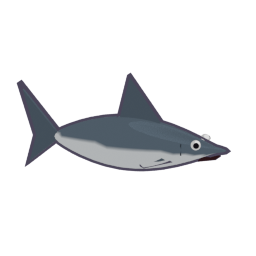
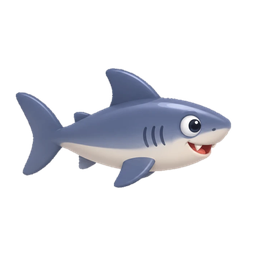
A trial: three fish from the owner's picture (cod, pufferfish, shark), cut out and made to swim

Changed region(s): [[0.0625, 0.25, 0.9062, 0.75]]

diff --git a/tools/art/make_fish.py b/tools/art/make_fish.py
@@ -1,0 +1,148 @@
+"""Fish from a picture the owner had made (an image model; the prompt is in the chat of 2026-11-14), in place of the
+Blender ones: a trial with three (tools/art/fish_source_test.webp: cod, pufferfish, shark, side on, on flat grey).
+
+Each fish is cut from the grey, then:
+  assets/vf/fish/<slug>.png   its picture (catch card, Fish Book, shop): 256 px, where the old one was, the same size
+  assets/vf/mini/<slug>.png   the side view that swims (Reel it in!, the aquarium): 4 frames of 224 px. The picture is
+                              one still, so the swim is made here: the tail half bends up and down and shortens
+                              (as a tail does when it swings towards you); the head, eye and mouth stay put.
+  manifest.json mini.fish     where its eye and mouth are, how big the eye is, the skin colour by the eye ("lid"),
+                              and "own": true: the picture has a face already, so the game draws its eye over the
+                              painted one (glossy, same place, same size) and leaves the mouth alone.
+
+    python tools/art/make_fish.py        -> the files above, and build/fish_check.png
+
+tools/blender/render_assets.py --only=fish,mini would put the old ones back: run this again after it.
+"""
+import json
+import math
+import os
+
+import numpy as np
+from PIL import Image
+from scipy import ndimage
+
+ROOT = os.path.abspath(os.path.join(os.path.dirname(__file__), "..", ".."))
+SRC = os.path.join(ROOT, "tools", "art", "fish_source_test.webp")
+OUT = os.path.join(ROOT, "assets", "vf")
+BG = 206.0
+# name, the box it is in (x0, x1), its eye (x, y, radius of the white) and mouth, measured on the picture,
+# where the bend starts (0 nose .. 1 tail), how far it bends
+FISH = [("Cod", (20, 680), (545.5, 307.0, 28.0), (602, 346), 0.42, 0.05),
+        ("Pufferfish", (760, 1230), (1102.5, 284.5, 29.5), (1160, 322), 0.66, 0.045),
+        ("Shark", (1330, 1990), (1844.0, 321.0, 29.0), (1870, 382), 0.45, 0.05)]
+MINI_CELL, MINI_FRAMES = 224, 4
+MINI_BOX = (11, 213, 150)        # the old ones: from x, to x, and no taller than this
+PIC_BOX = (16, 231, 190)
+
+
+def slug(name: str) -> str:
+    return name.lower().replace(" ", "_")
+
+
+def cut(rgb: np.ndarray):
+    """the fish off the grey: (RGB with the rim cleaned, alpha 0..1)"""
+    diff = np.abs(rgb - BG).max(axis=2)
+    lab, _ = ndimage.label(diff <= 9.0)
+    edge = np.unique(np.concatenate([lab[0], lab[-1], lab[:, 0], lab[:, -1]]))
+    bg = np.isin(lab, edge[edge > 0])
+    solid = ndimage.binary_fill_holes(~bg)
+    lab2, n = ndimage.label(solid)                       # the fish is the biggest thing here
+    if n > 1:
+        sizes = ndimage.sum(solid, lab2, range(1, n + 1))
+        solid = lab2 == (1 + int(np.argmax(sizes)))
+    core = ndimage.binary_erosion(solid, iterations=2)   # the rim is half grey: its colour comes from just inside
+    idx = ndimage.distance_transform_edt(~core, return_distances=False, return_indices=True)
+    col = rgb[idx[0], idx[1]]
+    col = np.where(core[..., None], rgb, col)
+    alpha = ndimage.gaussian_filter(ndimage.binary_erosion(solid, iterations=1).astype(np.float32), 0.9)
+    return col, np.clip(alpha, 0.0, 1.0)
+
+
+def swim(col: np.ndarray, alpha: np.ndarray, bend_from: float, amp: float, phase: float):
+    """one frame: the tail half bent (up or down) and drawn in a little, the rest as it is"""
+    h, w = alpha.shape
+    xs = np.nonzero(alpha.max(axis=0) > 0.5)[0]
+    x_tail, x_nose = float(xs.min()), float(xs.max())
+    length = x_nose - x_tail
+    yy, xx = np.mgrid[0:h, 0:w].astype(np.float32)
+    u = np.clip((x_nose - xx) / length, 0.0, 1.2)
+    k = np.clip((u - bend_from) / (1.0 - bend_from), 0.0, 1.2)
+    k = k * k * (3.0 - 2.0 * np.minimum(k, 1.0))        # eases in: no kink where the bend starts
+    dy = amp * length * k * math.sin(phase)
+    dx = 0.045 * length * k * math.sin(phase) ** 2       # towards the head
+    out = []
+    pre = np.dstack([col * alpha[..., None], alpha])
+    for c in range(4):
+        out.append(ndimage.map_coordinates(pre[..., c], [yy - dy, xx - dx], order=1, mode="constant", cval=0.0))
+    a = np.clip(out[3], 0.0, 1.0)
+    rgb = np.dstack(out[:3]) / np.maximum(a, 1e-4)[..., None]
+    return np.clip(rgb, 0, 255), a
+
+
+def to_image(col: np.ndarray, alpha: np.ndarray) -> Image.Image:
+    return Image.fromarray(np.dstack([col, alpha * 255.0]).round().astype(np.uint8), "RGBA")
+
+
+def place(img: Image.Image, bbox, cell: int, box):
+    """fitted where the old one was: (the cell, scale, offset) so a source point p lands at p * scale + offset"""
+    x0, x1, hmax = box
+    bw, bh = bbox[2] - bbox[0], bbox[3] - bbox[1]
+    s = min((x1 - x0) / bw, hmax / bh)
+    small = img.resize((max(1, round(img.width * s)), max(1, round(img.height * s))), Image.LANCZOS)
+    ox = (x0 + x1) * 0.5 - (bbox[0] + bbox[2]) * 0.5 * s
+    oy = cell * 0.5 - (bbox[1] + bbox[3]) * 0.5 * s
+    out = Image.new("RGBA", (cell, cell), (0, 0, 0, 0))
+    out.alpha_composite(small, (round(ox), round(oy)))
+    return out, s, (round(ox), round(oy))
+
+
+def main() -> None:
+    sheet = np.asarray(Image.open(SRC).convert("RGB")).astype(np.float32)
+    man_path = os.path.join(OUT, "manifest.json")
+    man = json.load(open(man_path, encoding="utf-8"))
+    check = []
+    for name, (bx0, bx1), eye, mouth, bend_from, amp in FISH:
+        pad = 40
+        part = np.full((sheet.shape[0] + pad * 2, bx1 - bx0 + pad * 2, 3), BG, np.float32)
+        part[pad:-pad, pad:-pad] = sheet[:, bx0:bx1]
+        col, alpha = cut(part)
+        ys, xs = np.nonzero(alpha > 0.5)
+        bbox = (xs.min(), ys.min(), xs.max() + 1, ys.max() + 1)
+        ex, ey, er = eye[0] - bx0 + pad, eye[1] + pad, eye[2]
+        mx, my = mouth[0] - bx0 + pad, mouth[1] + pad
+        gy, gx = np.mgrid[0:part.shape[0], 0:part.shape[1]]
+        far = np.hypot(gx - ex, gy - ey)
+        lid = np.median(part[(far > er * 1.2) & (far < er * 1.5) & (alpha > 0.99)], axis=0)
+
+        pic, _, _ = place(to_image(col, alpha), bbox, 256, PIC_BOX)
+        pic.save(os.path.join(OUT, "fish", slug(name) + ".png"))
+
+        strip = Image.new("RGBA", (MINI_CELL * MINI_FRAMES, MINI_CELL), (0, 0, 0, 0))
+        s, off = 1.0, (0, 0)
+        for f in range(MINI_FRAMES):
+            fc, fa = swim(col, alpha, bend_from, amp, f * math.tau / MINI_FRAMES)
+            cell, s, off = place(to_image(fc, fa), bbox, MINI_CELL, MINI_BOX)
+            strip.alpha_composite(cell, (f * MINI_CELL, 0))
+        strip.save(os.path.join(OUT, "mini", slug(name) + ".png"))
+        man["mini"]["fish"][name] = {
+            "eye": [round(float(ex * s + off[0]) / MINI_CELL, 4), round(float(ey * s + off[1]) / MINI_CELL, 4)],
+            "mouth": [round(float(mx * s + off[0]) / MINI_CELL, 4), round(float(my * s + off[1]) / MINI_CELL, 4)],
+            "er": round(float(er * 1.04 * s) / MINI_CELL / 1.9, 4),          # (the game draws it 1.9 x this)
+            "lid": "#%02x%02x%02x" % tuple(int(v) for v in lid),
+            "own": True}
+        print(name, "eye", (round(ex), round(ey)), "r", round(er, 1), "scale", round(s, 3), man["mini"]["fish"][name])
+        check += [pic, strip]
+    with open(man_path, "w", encoding="utf-8", newline="\n") as f:
+        json.dump(man, f, indent=1, sort_keys=True)
+    w = 256 + MINI_CELL * MINI_FRAMES
+    sheet_img = Image.new("RGBA", (w, 256 * len(FISH)), (38, 96, 110, 255))
+    for i in range(len(FISH)):
+        sheet_img.alpha_composite(check[i * 2], (0, i * 256))
+        sheet_img.alpha_composite(check[i * 2 + 1], (256, i * 256 + 16))
+    os.makedirs(os.path.join(ROOT, "build"), exist_ok=True)
+    sheet_img.convert("RGB").save(os.path.join(ROOT, "build", "fish_check.png"))
+
+
+if __name__ == "__main__":
+    main()
